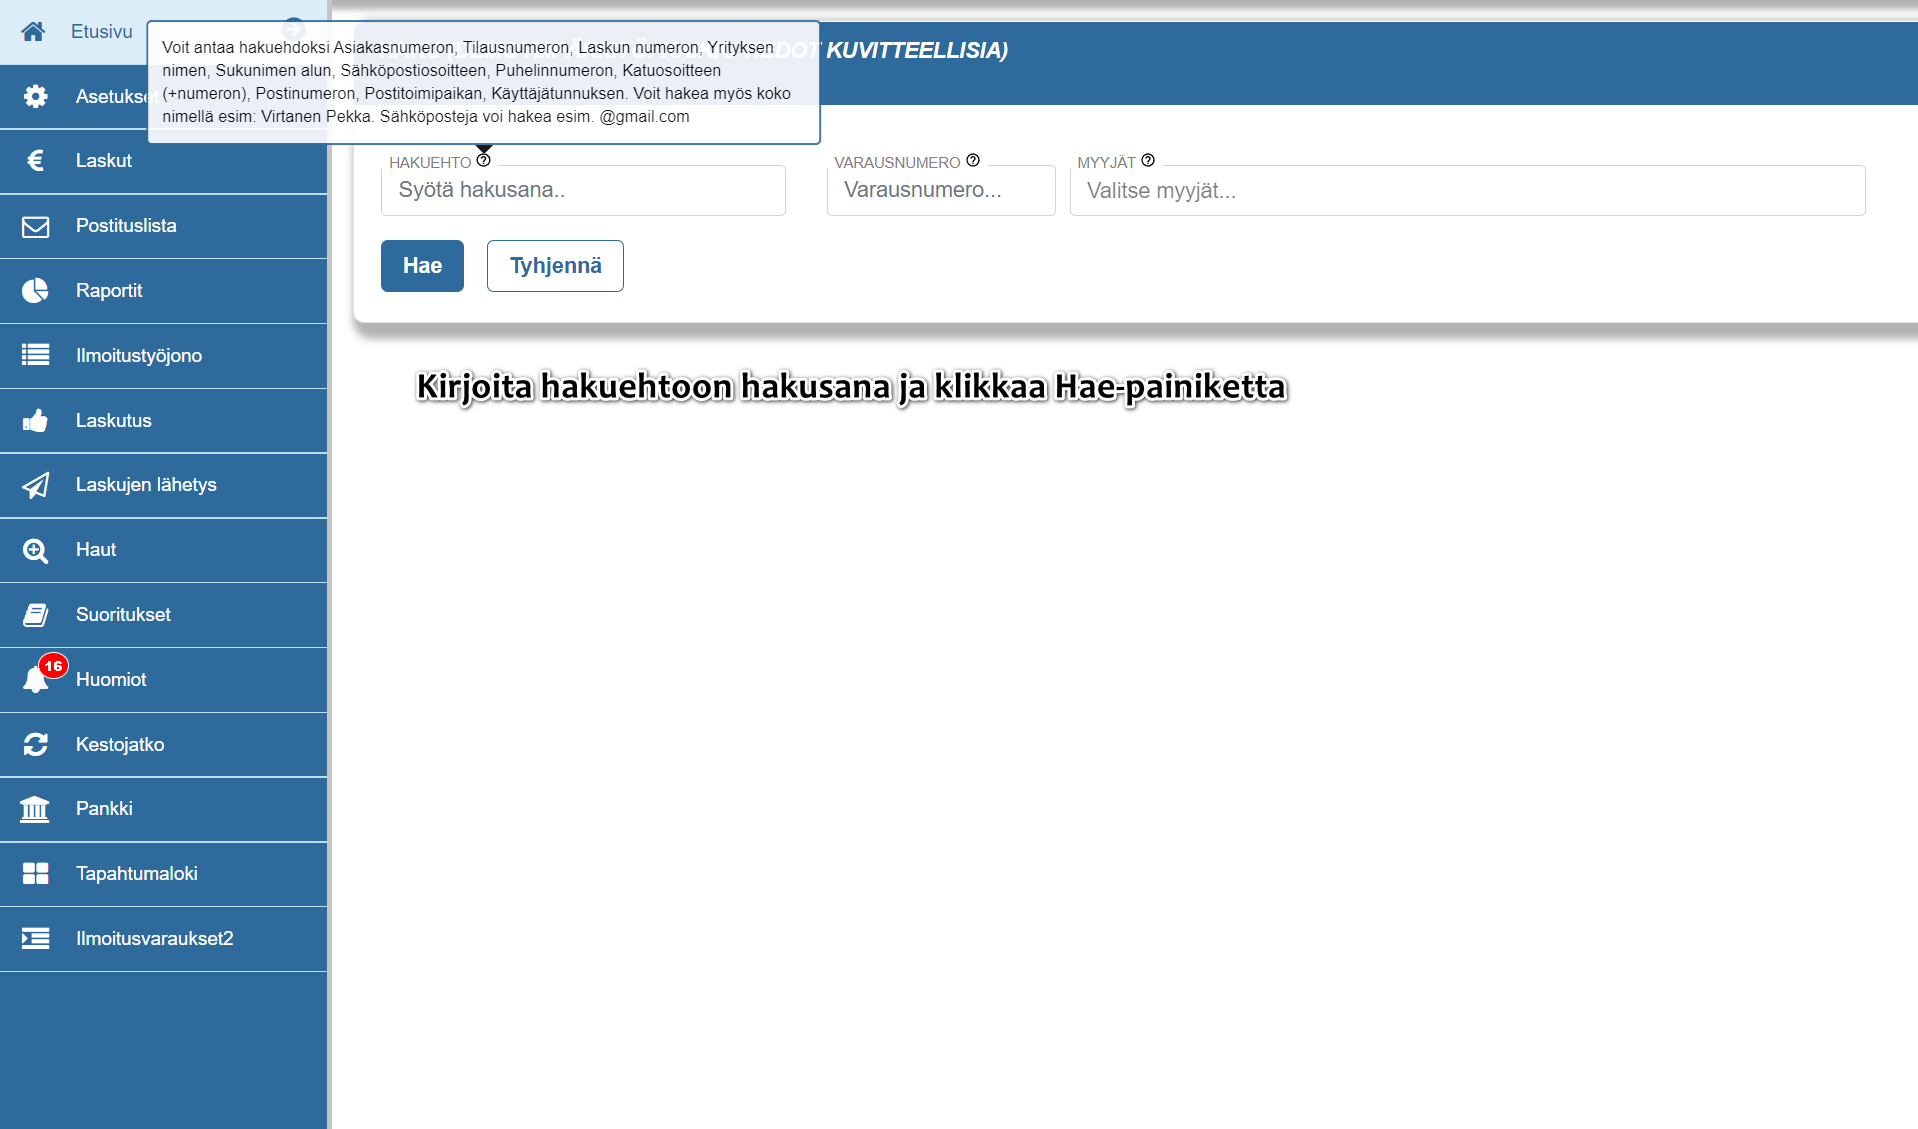
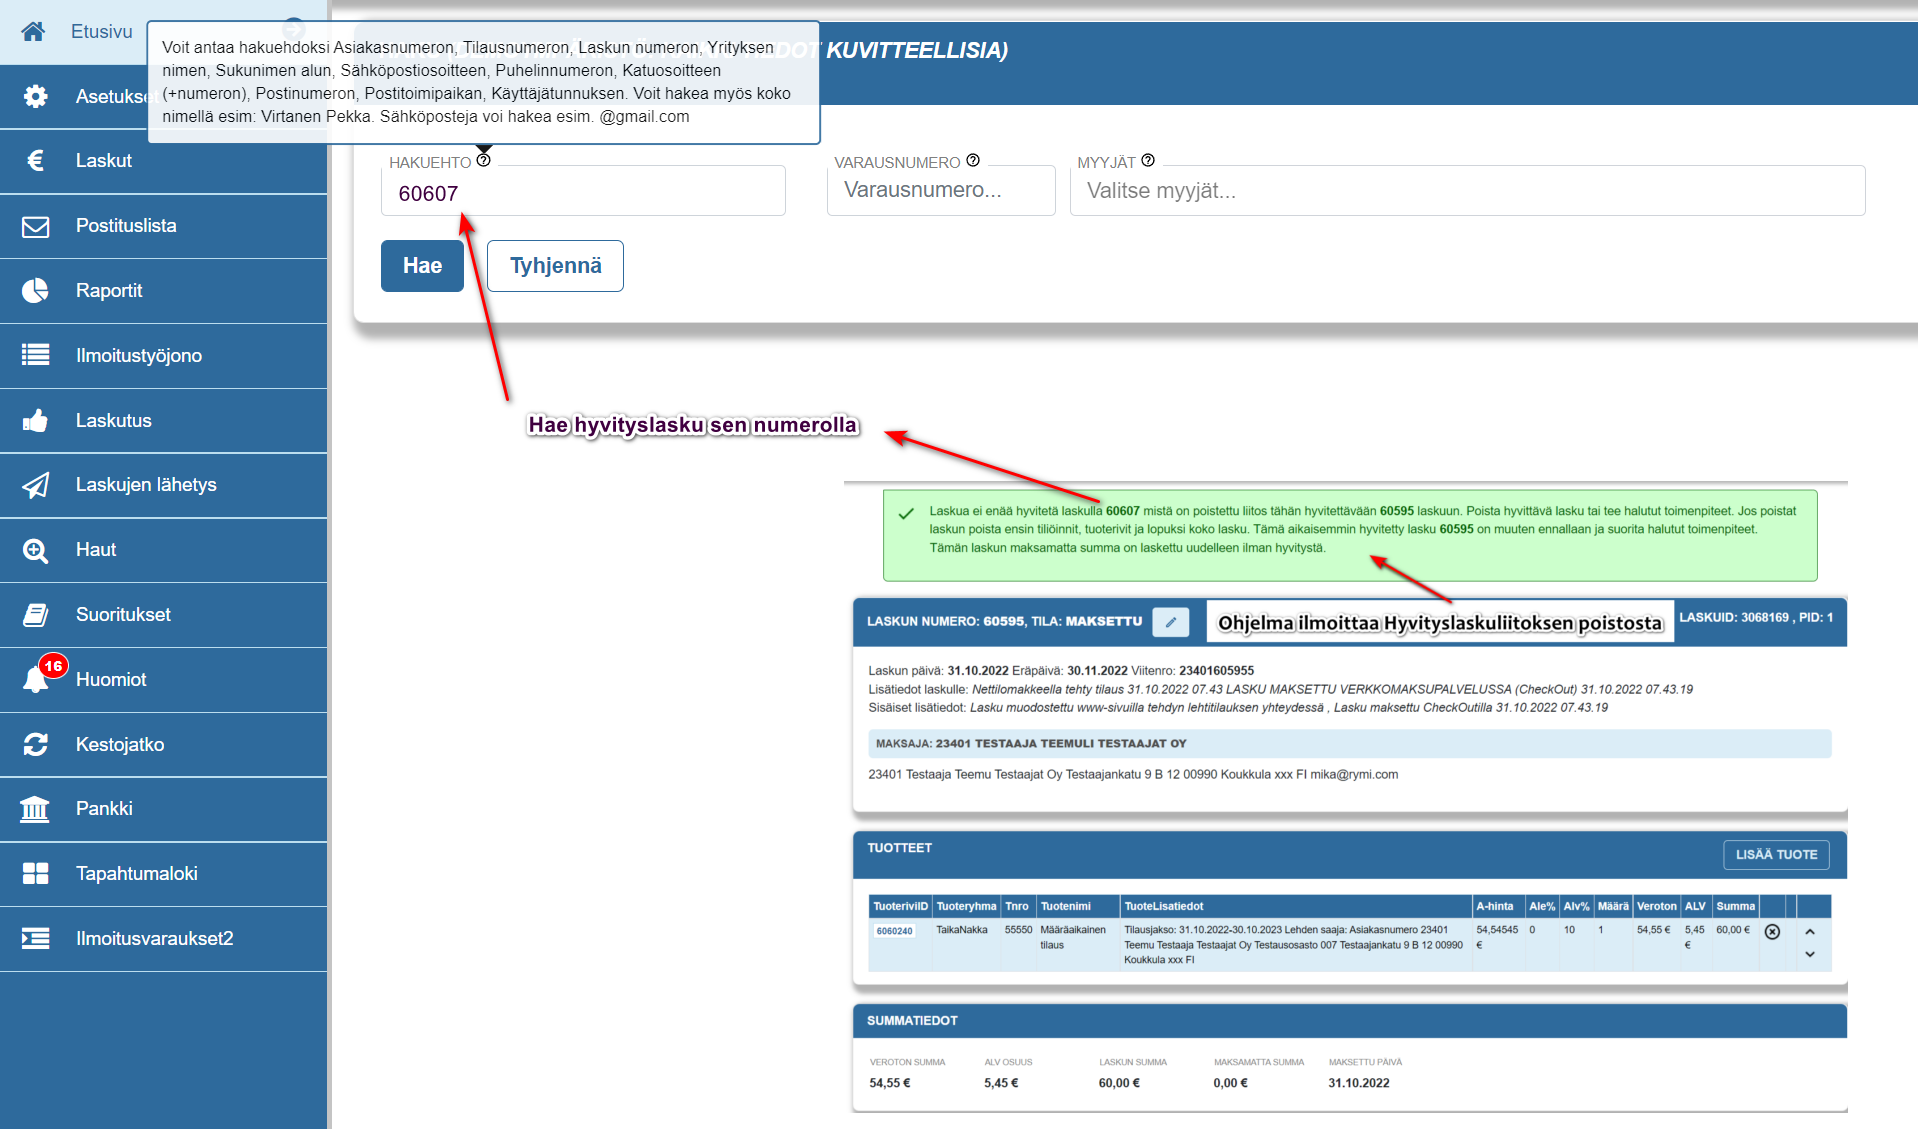
hyvityslaskun poisto pikaohje päivitys

Changed region(s): [[0.2153, 0.217, 0.9844, 0.961], [0.2153, 0.155, 0.2769, 0.217]]

diff --git a/docs/pikaohjeet/hyvityslasku-poisto.md b/docs/pikaohjeet/hyvityslasku-poisto.md
@@ -12,18 +12,26 @@ sidebar_position: 6
 
 ![2. Alkuperäisen laskun näkymä](/img/pikaohjeet/hyvityslasku-poisto2.png)
 
-### 3. Näkymä hyvityslaskuliitoksen poiston jälkeen
+### 3. Näkymä hyvityslaskuliitoksen poiston jälkeen. Kopioi hyvityslaskun numero
 
 ![3. Ilmoitus hyvityslaskun poistosta](/img/pikaohjeet/hyvityslasku-poisto3.png)
 
 ### 4. Haetaan hyvityslasku
+
 ![4. Etusivunäkymä](/img/pikaohjeet/hyvityslasku-poisto4.png)
 
-### 5. Hyvityslaskun tuotetiedoista poistetaan tuoterivit
-![5. Hyvityslaskun tiedot -näkymä](/img/pikaohjeet/hyvityslasku-poisto5.png)
+### 5. Hyvityslaskun tiedoista poistetaan tiliöinnit 
 
-### 6. Painetaan hyvityslaskun kynä-kuvaketta
-![6. Hyvityslaskun tiedot -näkymä](/img/pikaohjeet/hyvityslasku-poisto6.png)
+![5. Hyvityslaskun tiedot -näkymä](/img/pikaohjeet/tiliointi-poisto.png)
 
-### 7. Painetaan Poista lasku -painiketta
-![7. Hyvityslaskun muokkaus -näkymä](/img/pikaohjeet/hyvityslasku-poisto7.png)
+### 6. Ja sen jälkeen tuoterivit
+
+![6. Hyvityslaskun tiedot -näkymä](/img/pikaohjeet/hyvityslasku-poisto5.png)
+
+### 7. Painetaan hyvityslaskun kynä-kuvaketta
+
+![7. Hyvityslaskun tiedot -näkymä](/img/pikaohjeet/hyvityslasku-poisto6.png)
+
+### 8. Painetaan Poista lasku -painiketta
+
+![8 Hyvityslaskun muokkaus -näkymä](/img/pikaohjeet/hyvityslasku-poisto7.png)
